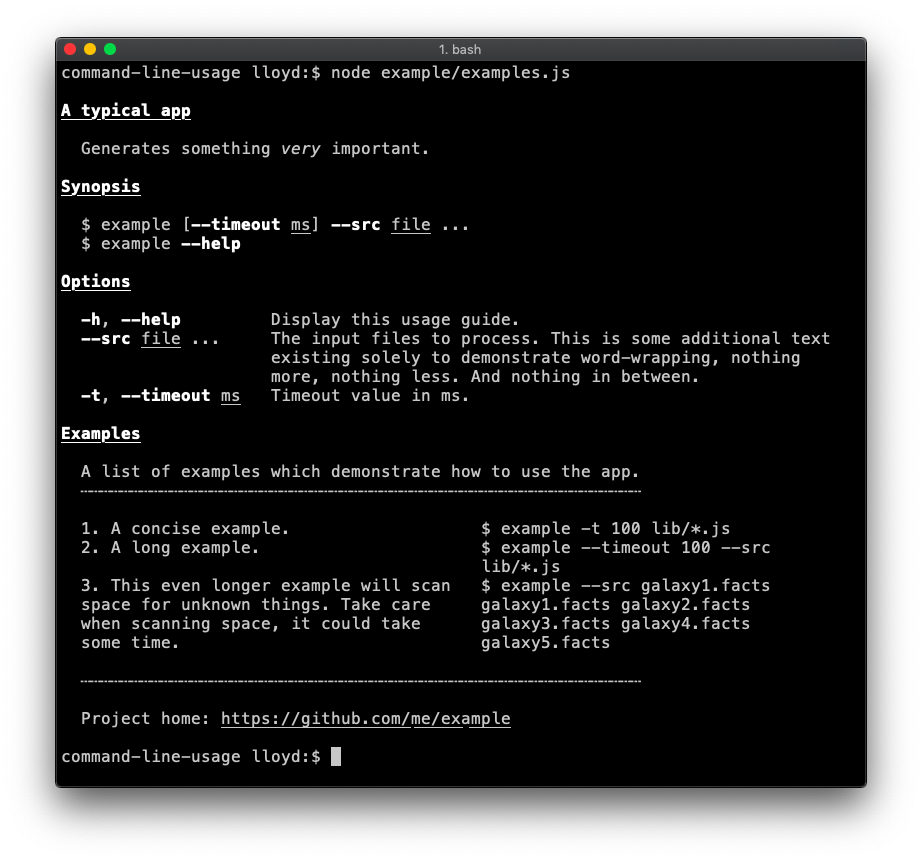
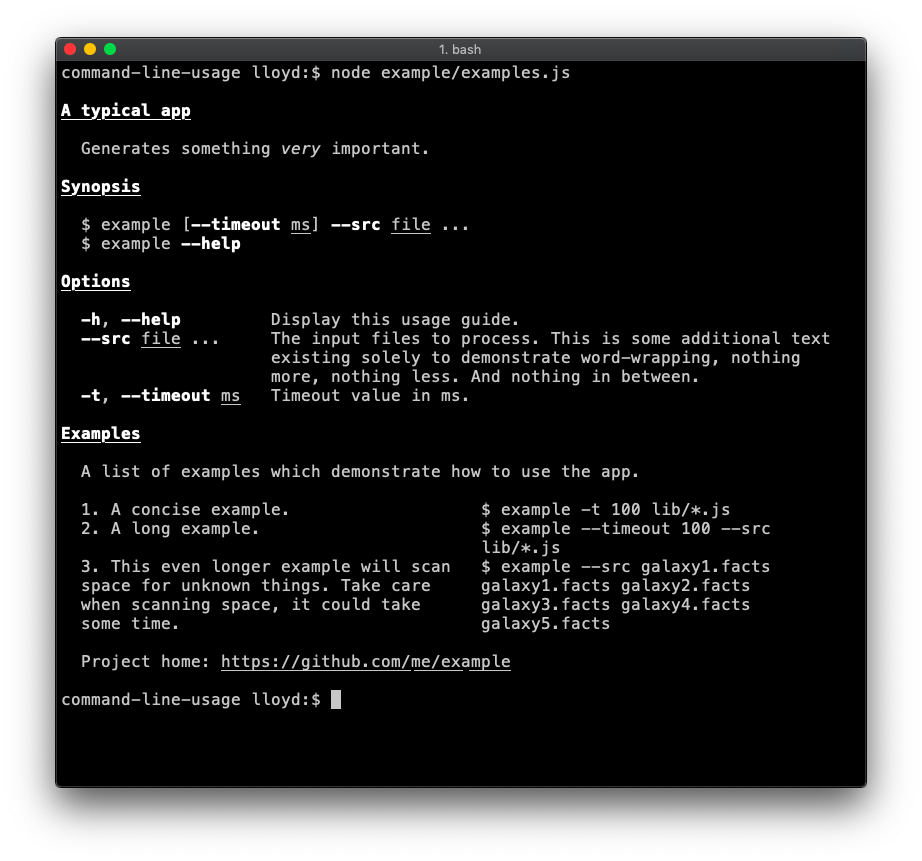
update second example list example

diff --git a/example/examples.js b/example/examples.js
@@ -1,5 +1,27 @@
 const commandLineUsage = require('../')
-const optionDefinitions = require('./assets/example-options')
+const optionDefinitions = [
+  {
+    name: 'help',
+    description: 'Display this usage guide.',
+    alias: 'h',
+    type: Boolean
+  },
+  {
+    name: 'src',
+    description: 'The input files to process. This is some additional text existing solely to demonstrate word-wrapping, nothing more, nothing less. And nothing in between.',
+    type: String,
+    multiple: true,
+    defaultOption: true,
+    typeLabel: '{underline file} ...'
+  },
+  {
+    name: 'timeout',
+    description: 'Timeout value in ms.',
+    alias: 't',
+    type: Number,
+    typeLabel: '{underline ms}'
+  }
+]
 
 const sections = [
   {
@@ -19,10 +41,7 @@ const sections = [
   },
   {
     header: 'Examples',
-    content: [
-      'A list of examples which demonstrate how to use the app.',
-      '┄┄┄┄┄┄┄┄┄┄┄┄┄┄┄┄┄┄┄┄┄┄┄┄┄┄┄┄┄┄┄┄┄┄┄┄┄┄┄┄┄┄┄┄┄┄┄┄┄┄┄┄┄┄┄┄'
-    ]
+    content: 'A list of examples which demonstrate how to use the app.'
   },
   {
     content: [
@@ -39,9 +58,6 @@ const sections = [
         example: '$ example --src galaxy1.facts galaxy1.facts galaxy2.facts galaxy3.facts galaxy4.facts galaxy5.facts'
       }
     ]
-  },
-  {
-    content: '┄┄┄┄┄┄┄┄┄┄┄┄┄┄┄┄┄┄┄┄┄┄┄┄┄┄┄┄┄┄┄┄┄┄┄┄┄┄┄┄┄┄┄┄┄┄┄┄┄┄┄┄┄┄┄┄'
   },
   {
     content: 'Project home: {underline https://github.com/me/example}'
